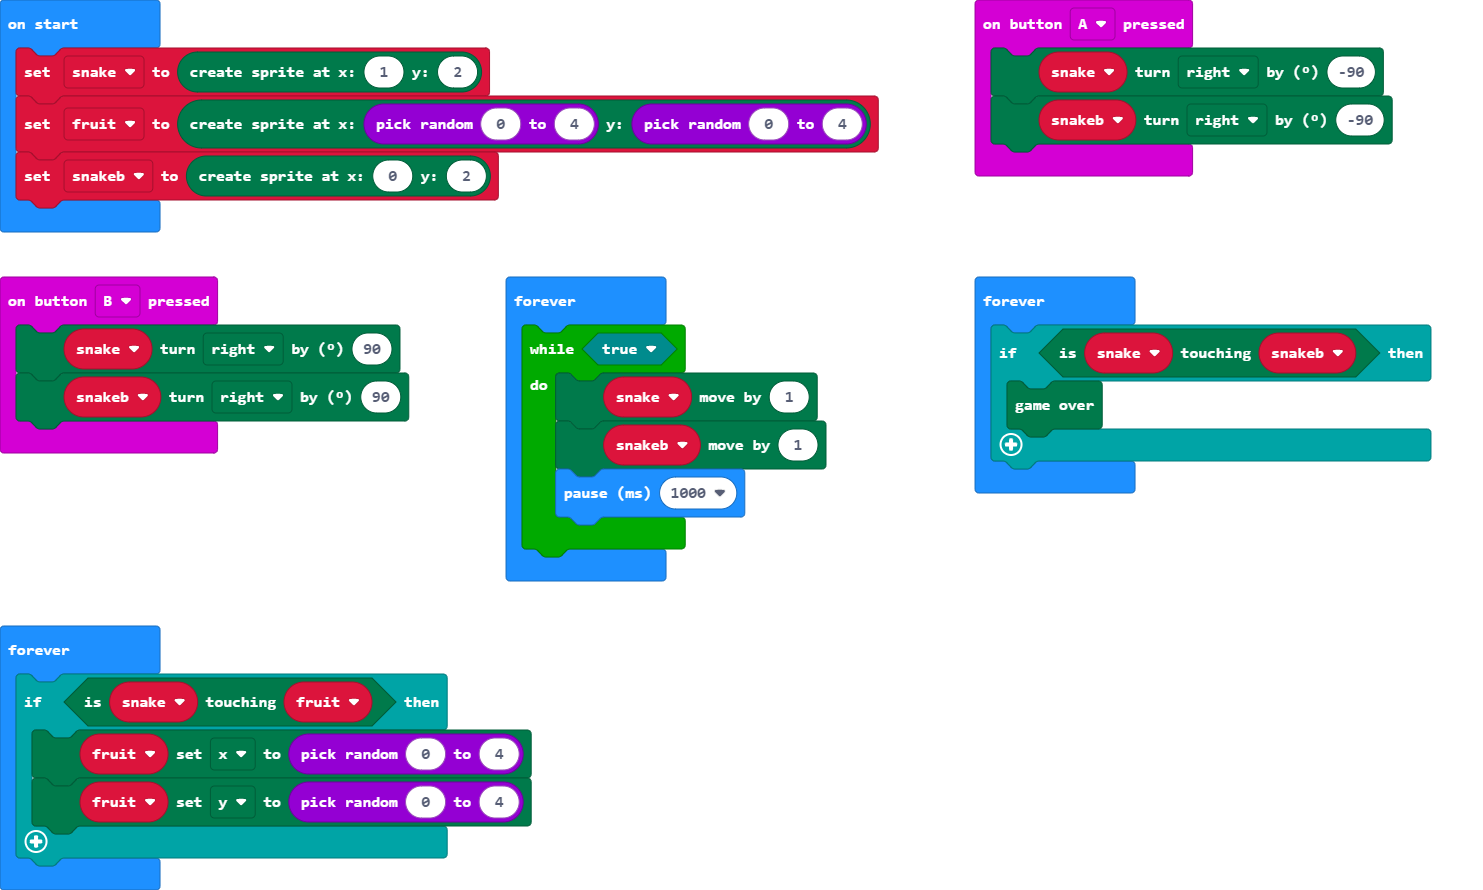
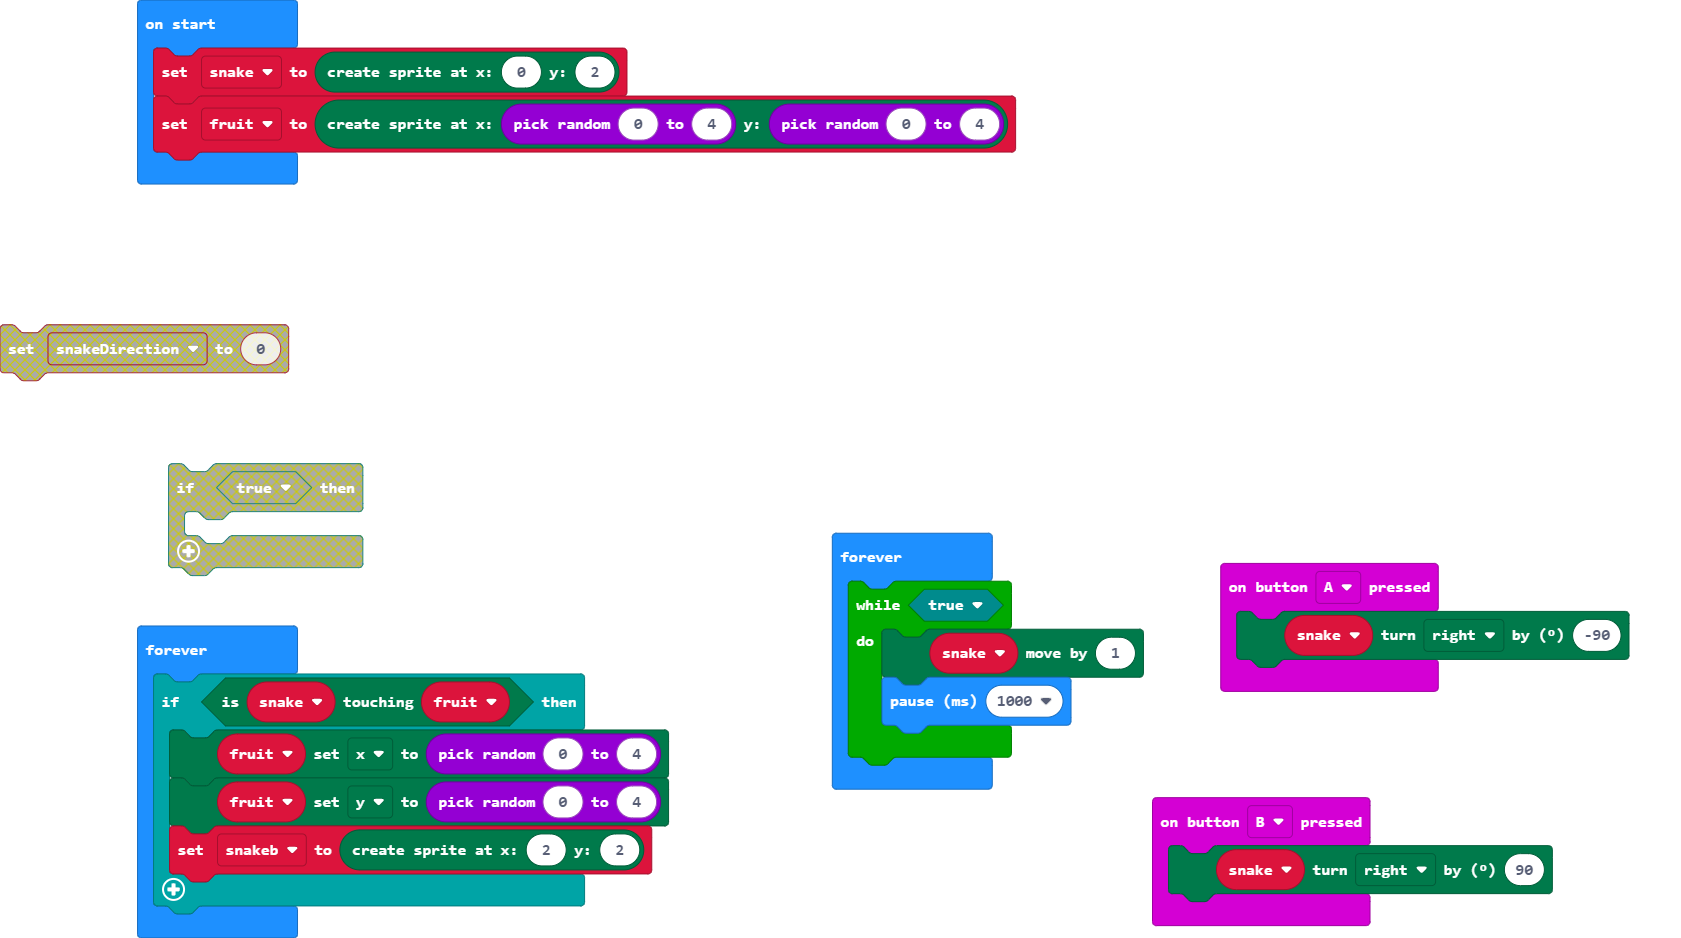
Update main.blocks, main.ts

diff --git a/main.ts b/main.ts
@@ -1,31 +1,23 @@
 input.onButtonPressed(Button.A, function () {
     snake.turn(Direction.Right, -90)
-    snakeb.turn(Direction.Right, -90)
 })
 input.onButtonPressed(Button.B, function () {
     snake.turn(Direction.Right, 90)
-    snakeb.turn(Direction.Right, 90)
 })
 let snakeb: game.LedSprite = null
 let snake: game.LedSprite = null
-snake = game.createSprite(1, 2)
+snake = game.createSprite(0, 2)
 let fruit = game.createSprite(randint(0, 4), randint(0, 4))
-snakeb = game.createSprite(0, 2)
 basic.forever(function () {
     while (true) {
         snake.move(1)
-        snakeb.move(1)
         basic.pause(1000)
-    }
-})
-basic.forever(function () {
-    if (snake.isTouching(snakeb)) {
-        game.gameOver()
     }
 })
 basic.forever(function () {
     if (snake.isTouching(fruit)) {
         fruit.set(LedSpriteProperty.X, randint(0, 4))
         fruit.set(LedSpriteProperty.Y, randint(0, 4))
+        snakeb = game.createSprite(2, 2)
     }
 })
